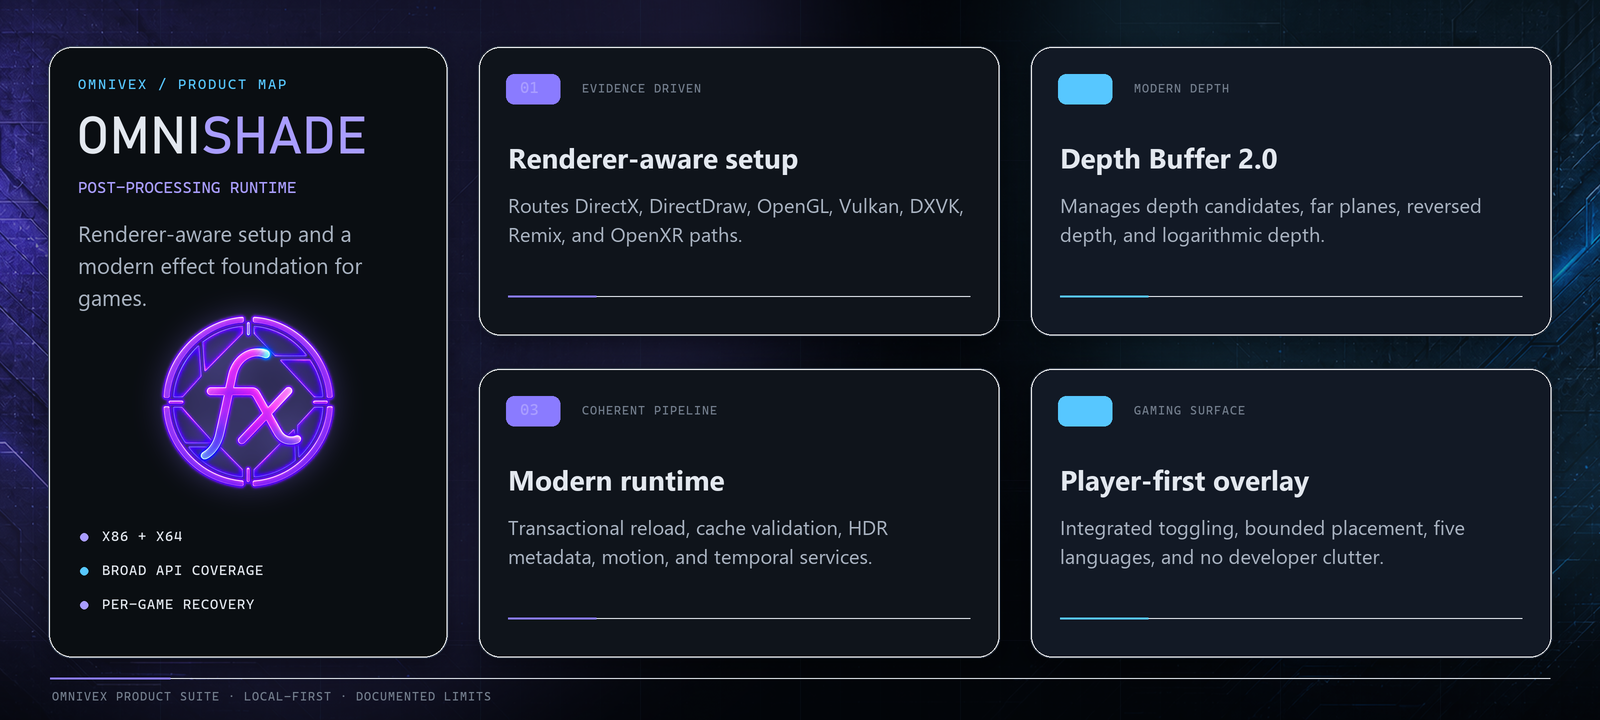
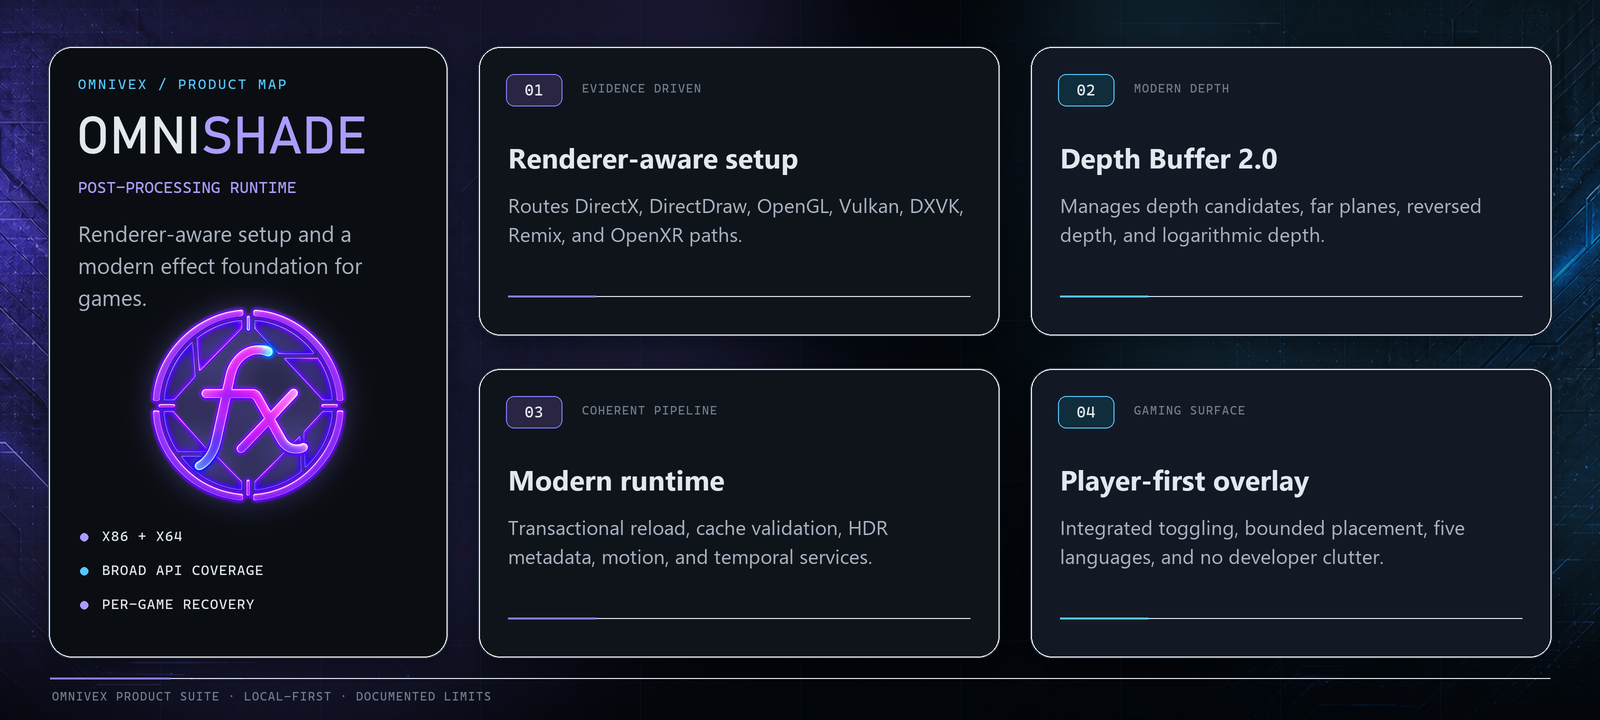
fix: show centered capability numbers (#15)

diff --git a/README.md b/README.md
@@ -44,7 +44,7 @@
 
 OmniShade is a game-first, ReShade-derived post-processing runtime. It brings renderer-aware setup, dependable per-title recovery, a focused in-game interface, and a modern effects foundation together in one package—without turning ordinary play into a developer workflow.
 
-![OmniShade capability map covering renderer-aware setup, Depth Buffer 2.0, the modern effect runtime, and the player-first overlay](assets/presentation/capabilities.png)
+![OmniShade capability map covering renderer-aware setup, Depth Buffer 2.0, the modern effect runtime, and the player-first overlay](assets/presentation/capabilities.png?v=20260823-visible-numbers-v3)
 
 | Game-aware | Reversible | Player-focused |
 |---|---|---|
